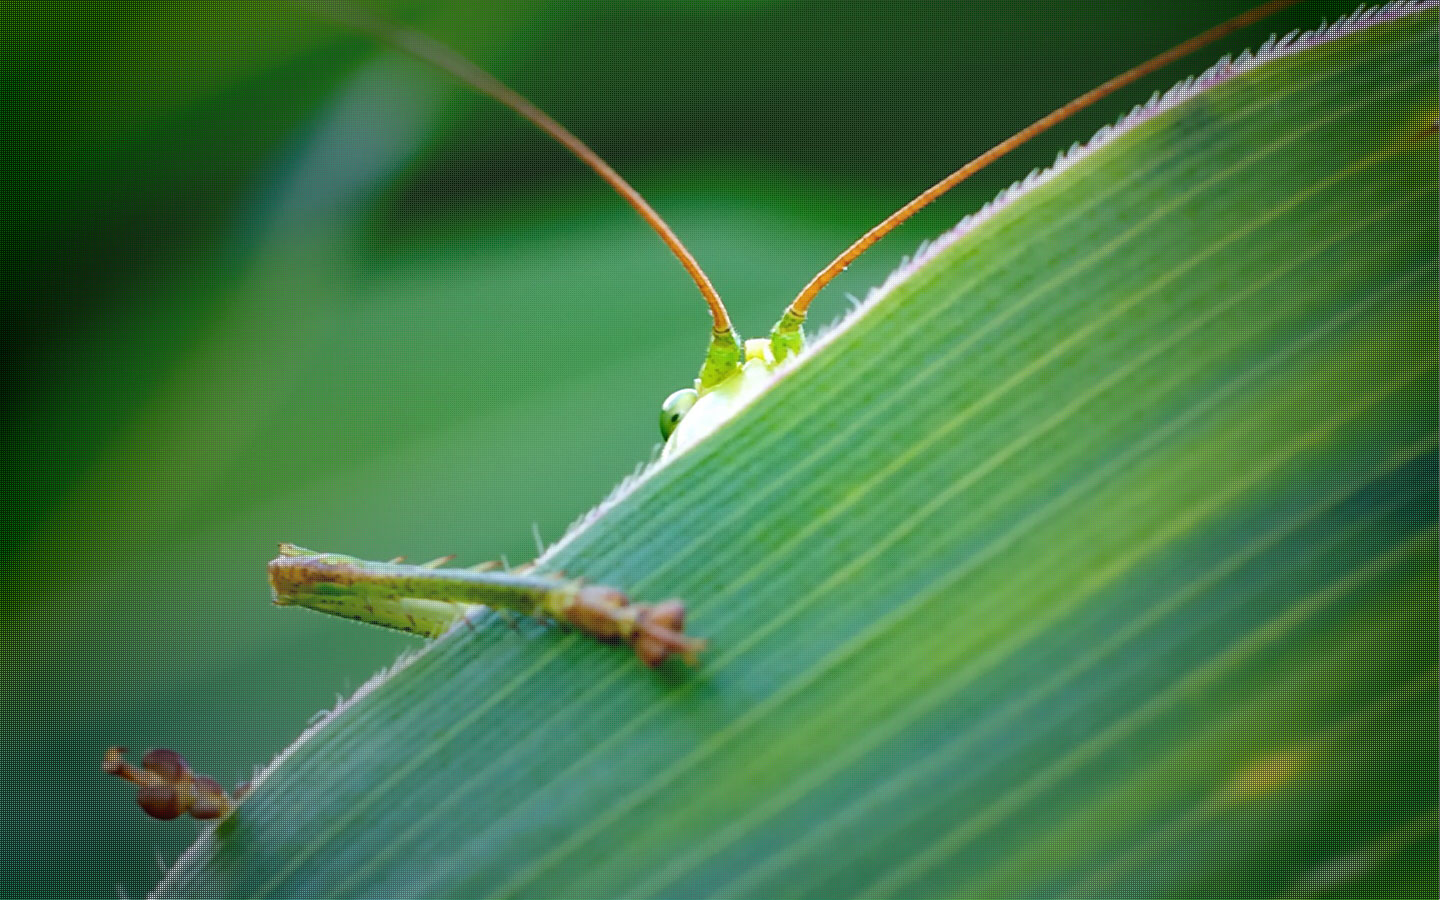
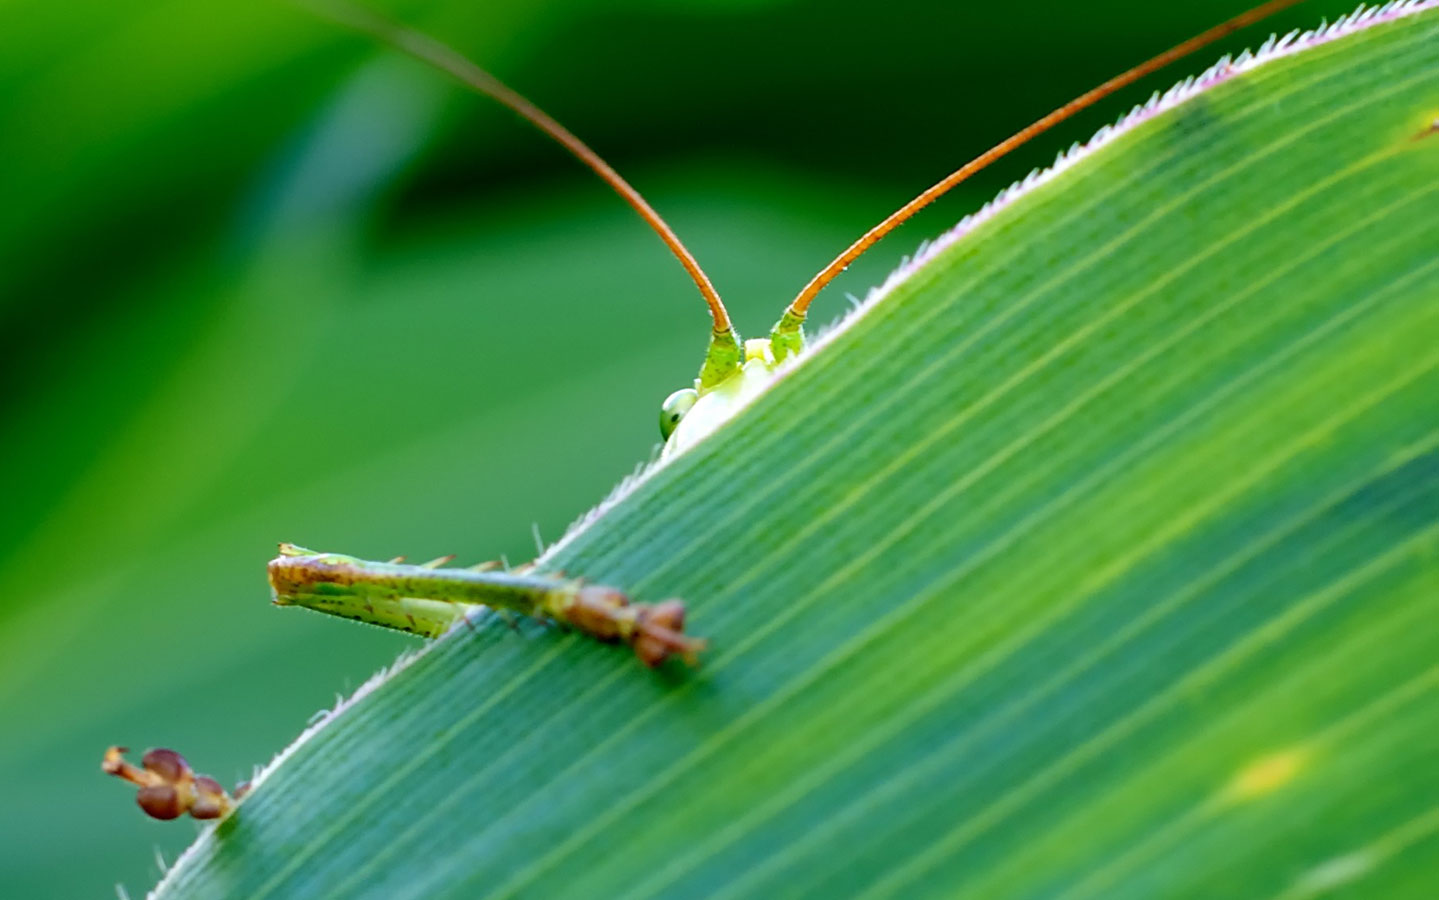
css image effects

diff --git a/client/stylesheets/main.less b/client/stylesheets/main.less
@@ -49,12 +49,12 @@ body.botanika-body {
 
 .image-slider {
   &--index{
-    background: url('/img/main_bg.jpg')center center no-repeat;
+    background: radial-gradient(transparent 0%, transparent 15%, black), url('/img/main_bg.jpg') center center no-repeat;
     background-size: cover;
   }
 
   &--contacts{
-    background: url('/img/contacts_bg.jpg')center center no-repeat;
+    background: radial-gradient(transparent 0%, transparent 15%, black), url('/img/contacts_bg.jpg') center center no-repeat;
     background-size: cover;
   }
 }
